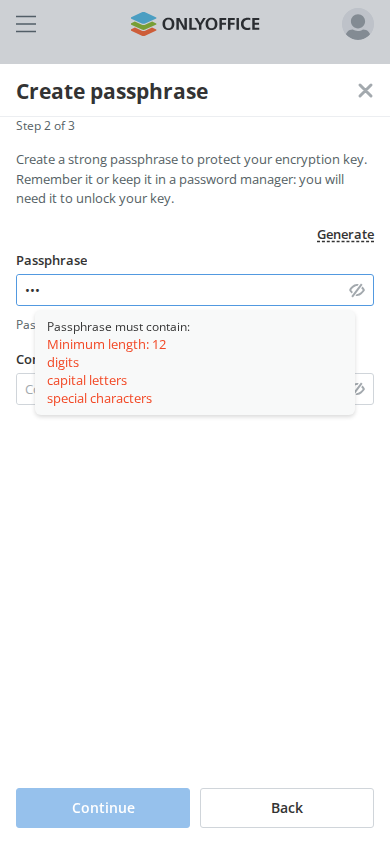
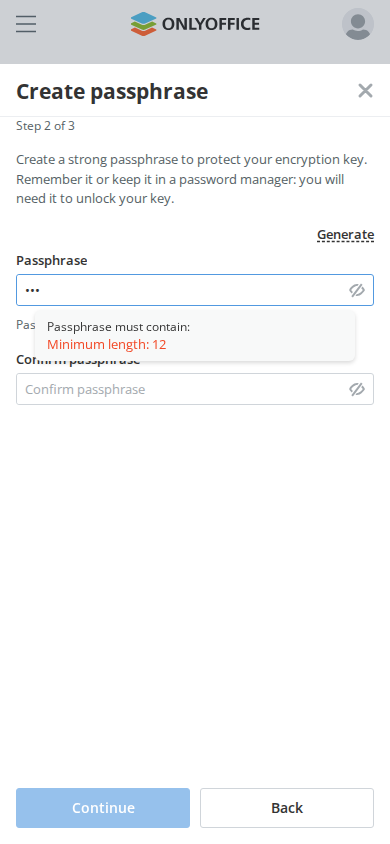
E2E: Private rooms: create a key with a passphrase of lowercase words
Keys management gains the case "Lowercase words": a key is created with a
22-character passphrase of lowercase words and spaces and registered. The
comments on the passphrase rules in the key flow specs now name the length
and the common-pattern rule, and the screenshots of the rules tooltip,
which lists the length alone, are updated.

OpenSpec: private-rooms-passphrase-length-only 3.1

Changed region(s): [[0.0923, 0.4005, 0.4, 0.4929]]

diff --git a/packages/client/__tests__/keys-management.spec.ts b/packages/client/__tests__/keys-management.spec.ts
@@ -49,7 +49,10 @@ import {
   TypeSettings,
 } from "@docspace/shared/__mocks__/handlers";
 import { expect, test, TEST_PORT } from "./fixtures/base";
-import { passKeySetupExplanation } from "./fixtures/encryption-helpers";
+import {
+  bootstrapEncryption,
+  passKeySetupExplanation,
+} from "./fixtures/encryption-helpers";
 
 test.describe("Profile > Keys Management", () => {
   test.beforeEach(async ({ mockRequest }) => {
@@ -172,6 +175,16 @@ test.describe("Profile > Keys Management", () => {
     expect(stored.privateKeyEnc).toBe(body.privateKeyEnc);
 
     await expect(acknowledge).toBeHidden({ timeout: 5_000 });
+  });
+
+  // Spec: private-rooms/key-management, "A new passphrase needs no particular characters"
+  test("Lowercase words", async ({ page, mockRequest, baseUrl }) => {
+    test.slow();
+    const { keysHandle } = await bootstrapEncryption(page, mockRequest, baseUrl, {
+      passphrase: "lorem ipsum dolor sitx",
+    });
+
+    expect(keysHandle.getKeys()).toHaveLength(1);
   });
 
   test("cancel passphrase modal does NOT upload anything", async ({

diff --git a/packages/client/__tests__/keys-management-advanced.spec.ts b/packages/client/__tests__/keys-management-advanced.spec.ts
@@ -58,8 +58,8 @@ import { bootstrapEncryption } from "./fixtures/encryption-helpers";
 
 const TEST_USER_ID = "66faa6e4-f133-11ea-b126-00ffeec8b4ef";
 const ROOM_ID = 9451;
-// Both passphrases must satisfy PASSPHRASE_SETTINGS in PassphraseModal:
-// length >= 12, uppercase, digits, special characters.
+// Both passphrases must satisfy the rules of a new passphrase
+// (PASSPHRASE_SETTINGS): at least 12 characters and no common pattern.
 const KNOWN_PASSPHRASE = "Test-Horse-Battery-Staple-99!";
 const KNOWN_MNEMONIC =
   "abandon abandon abandon abandon abandon abandon " +

diff --git a/packages/client/__tests__/fixtures/encryption-helpers.ts b/packages/client/__tests__/fixtures/encryption-helpers.ts
@@ -51,8 +51,8 @@ export type BootstrapOptions = {
   passphrase?: string;
 };
 
-// Must satisfy PASSPHRASE_SETTINGS in PassphraseModal:
-// length >= 12, uppercase, digits, special characters.
+// Must satisfy the rules of a new passphrase (PASSPHRASE_SETTINGS): at
+// least 12 characters and no common pattern.
 const DEFAULT_PASSPHRASE = "Test-Horse-Battery-Staple-99!";
 
 /** Leaves the explanation step of key setup for its passphrase step. */

diff --git a/packages/client/__tests__/key-flow-edge-cases.spec.ts b/packages/client/__tests__/key-flow-edge-cases.spec.ts
@@ -49,8 +49,8 @@ import {
   passKeySetupExplanation,
 } from "./fixtures/encryption-helpers";
 
-// Must satisfy PASSPHRASE_SETTINGS in PassphraseModal:
-// length >= 12, uppercase, digits, special characters.
+// Must satisfy the rules of a new passphrase (PASSPHRASE_SETTINGS): at
+// least 12 characters and no common pattern.
 const STRONG_PASSPHRASE = "Test-Horse-Battery-Staple-99!";
 
 test.describe("Keys management — edge cases", () => {

diff --git a/openspec/changes/private-rooms-passphrase-length-only/tasks.md b/openspec/changes/private-rooms-passphrase-length-only/tasks.md
@@ -15,7 +15,7 @@ tests must stay green. No locale key is added or changed.
 
 ## 3. End to end
 
-- [ ] 3.1 Add a Playwright case "Lowercase words" to `packages/client/__tests__/keys-management.spec.ts` that creates a key with a passphrase of lowercase words, correct the comments on the rules in `key-flow-edge-cases.spec.ts` and `keys-management-advanced.spec.ts`, and update the screenshots of the rules tooltip under Docker. Verify: `keys-management*.spec.ts` and `key-flow-edge-cases.spec.ts` green under Docker
+- [x] 3.1 Add a Playwright case "Lowercase words" to `packages/client/__tests__/keys-management.spec.ts` that creates a key with a passphrase of lowercase words, correct the comments on the rules in `key-flow-edge-cases.spec.ts` and `keys-management-advanced.spec.ts`, and update the screenshots of the rules tooltip under Docker. Verify: `keys-management*.spec.ts` and `key-flow-edge-cases.spec.ts` green under Docker
 
 ## 4. Gate
 
